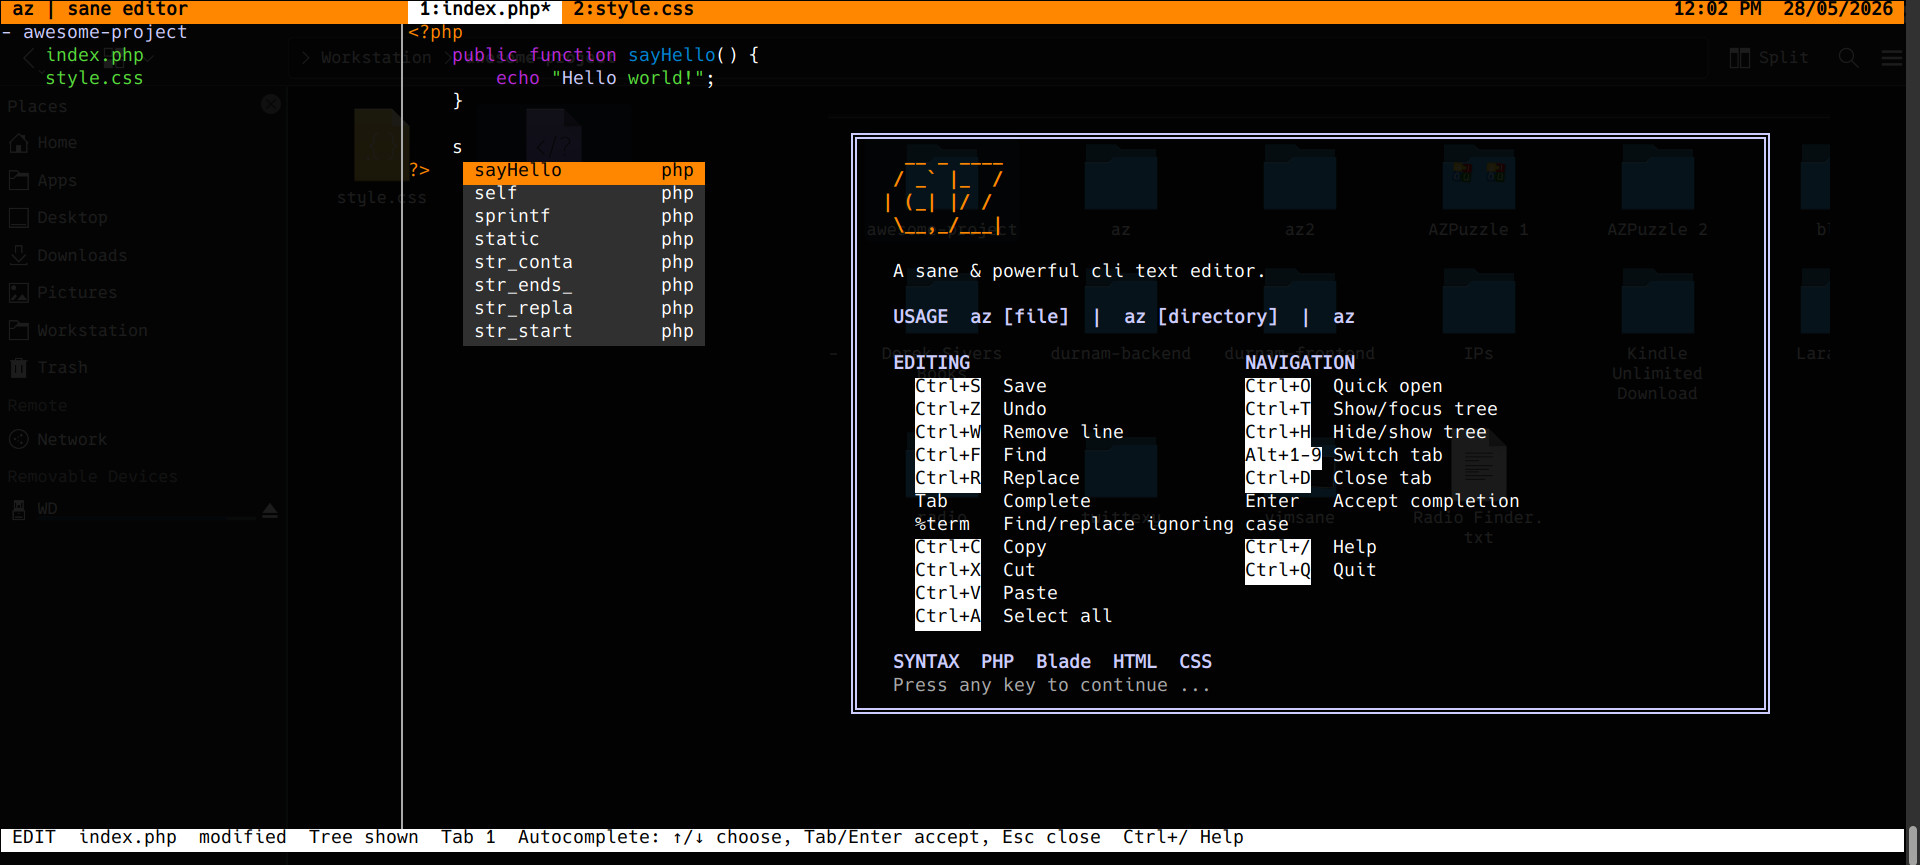
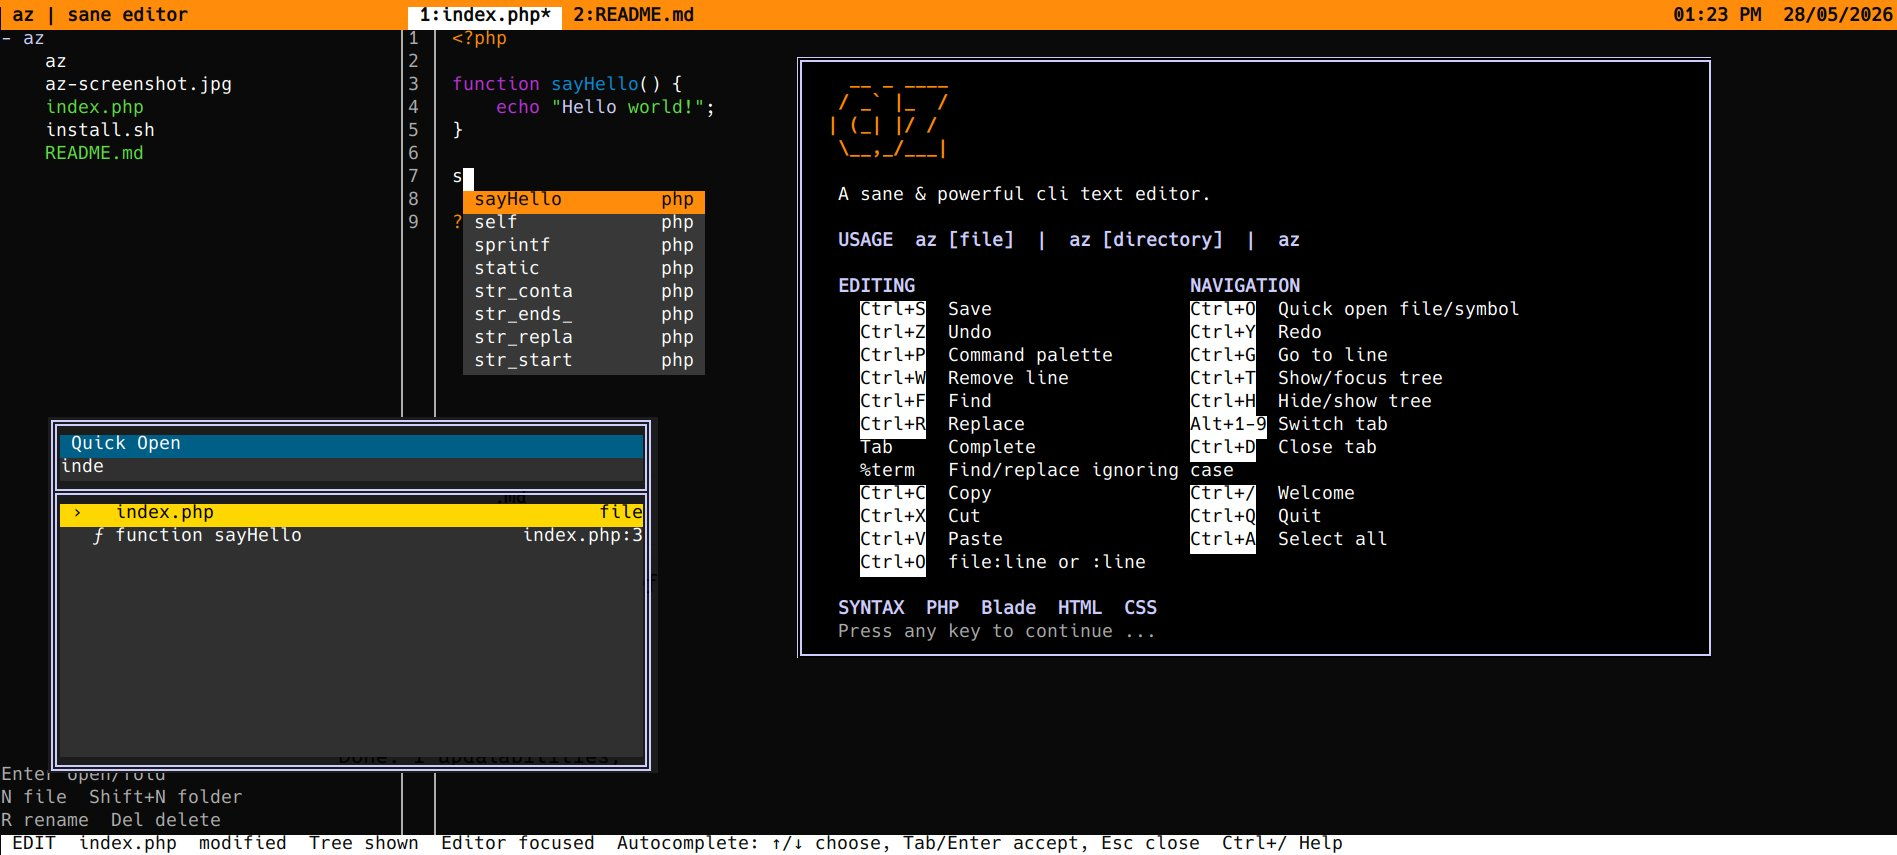
Add line numbers

diff --git a/README.md b/README.md
@@ -1,7 +1,7 @@
 # az
 
 `az` is a small, sane terminal text editor written in PHP.
-It opens ready to type, supports project folders, tabs, quick file opening, simple keyboard shortcuts and syntax highlighting with Autocompletion.
+It opens ready to type, supports project folders, tabs, a project tree, quick opening, command actions, line numbers, simple shortcuts, syntax highlighting, and autocomplete.
 
 ![az screenshot](az-screenshot.jpg)
 
@@ -10,14 +10,24 @@ It opens ready to type, supports project folders, tabs, quick file opening, simp
 - Keyboard-only editing
 - Opens files or folders
 - Project tree sidebar
+- Sidebar shortcuts shown at the bottom
 - Tabs with Alt+1 to Alt+9
 - Quick open with Ctrl+O
+- Open files and jump to a line with `file.php:20`
+- Jump to a line in the current file with `:20`
+- Project search from the quick open interface
+- Function/symbol opening from quick open
+- Command palette with Ctrl+P
+- Save, create files, and run editor actions from the command palette
+- Visible line numbers
+- Welcome screen for startup and Ctrl+/ help
 - Find and replace
 - Case-insensitive find/replace with `%term`
 - Word wrapping
 - UTF-8 input support
 - Syntax highlighting for PHP, Blade, HTML, and CSS
 - Autocomplete for HTML, CSS, and PHP
+- Top bar with editor name, tabs, live time, and date
 - No external dependencies except PHP CLI
 
 ## Install
@@ -69,7 +79,8 @@ sudo apt install php-cli
 | Shortcut | Action |
 | --- | --- |
 | Ctrl+S | Save |
-| Ctrl+O | Quick open |
+| Ctrl+O | Quick open files, symbols, search, or jump to line |
+| Ctrl+P | Command palette |
 | Ctrl+T | Switch between tree and editor |
 | Ctrl+H | Hide or show tree |
 | Ctrl+F | Find |
@@ -77,11 +88,38 @@ sudo apt install php-cli
 | Ctrl+W | Remove current line |
 | Ctrl+Z | Undo |
 | Ctrl+D | Close tab |
-| Ctrl+/ | Help |
+| Ctrl+/ | Show welcome/help screen |
 | Ctrl+Q | Quit |
 | Tab | Complete suggestion |
 | Enter | Accept selected completion |
 | Alt+1..9 | Switch tab |
+
+## Quick open
+
+Ctrl+O opens the quick open menu.
+
+Examples:
+
+```txt
+main.blade.php
+main.blade.php:20
+:20
+```
+
+Use `file.php:20` to open a file and jump to line 20.
+Use `:20` to jump to line 20 in the current file.
+
+## Find and replace
+
+Normal search is case-sensitive.
+Prefix the search term with `%` to ignore uppercase and lowercase differences.
+
+Examples:
+
+```txt
+hello
+%hello
+```
 
 ## Notes
 
